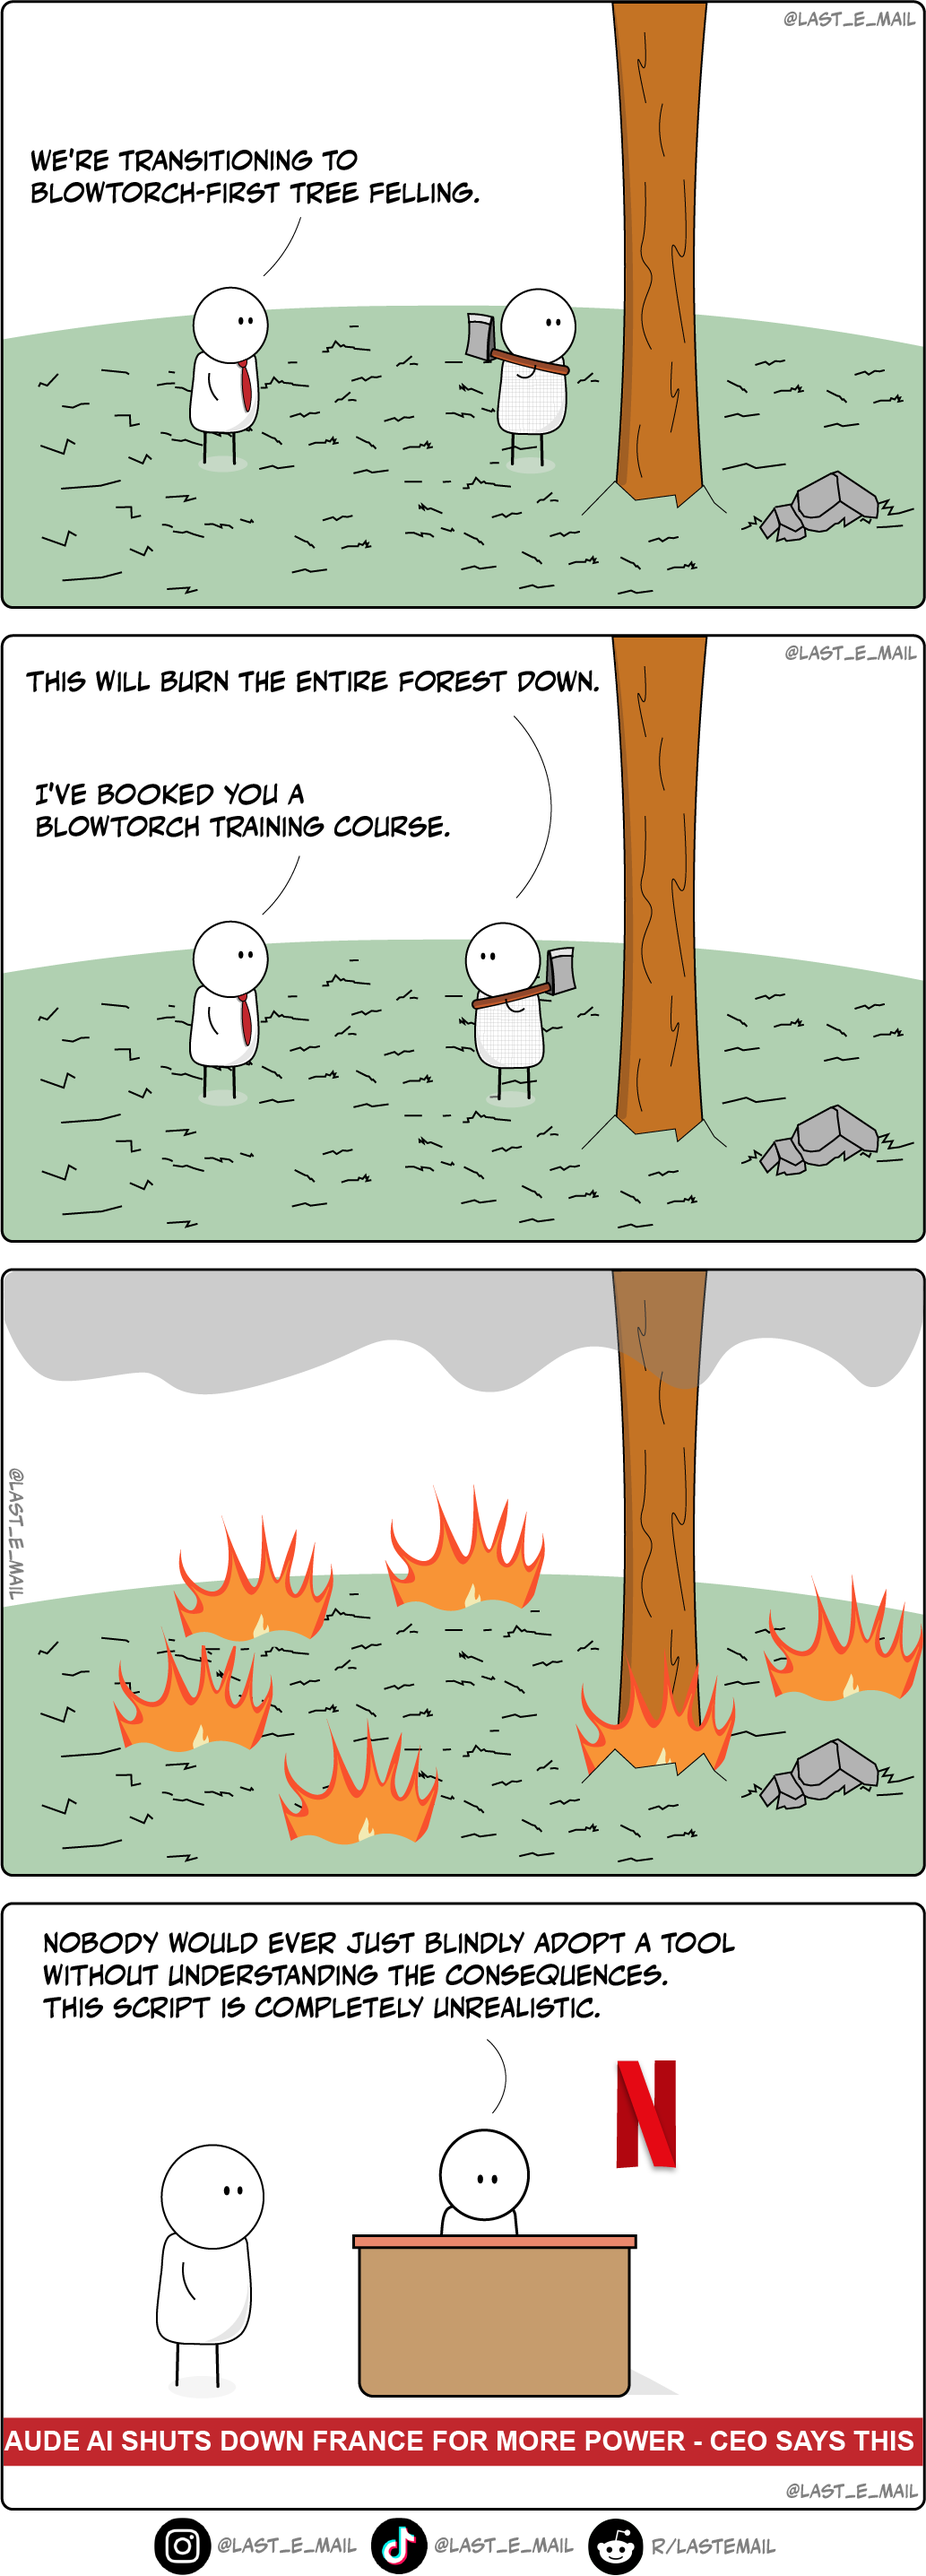
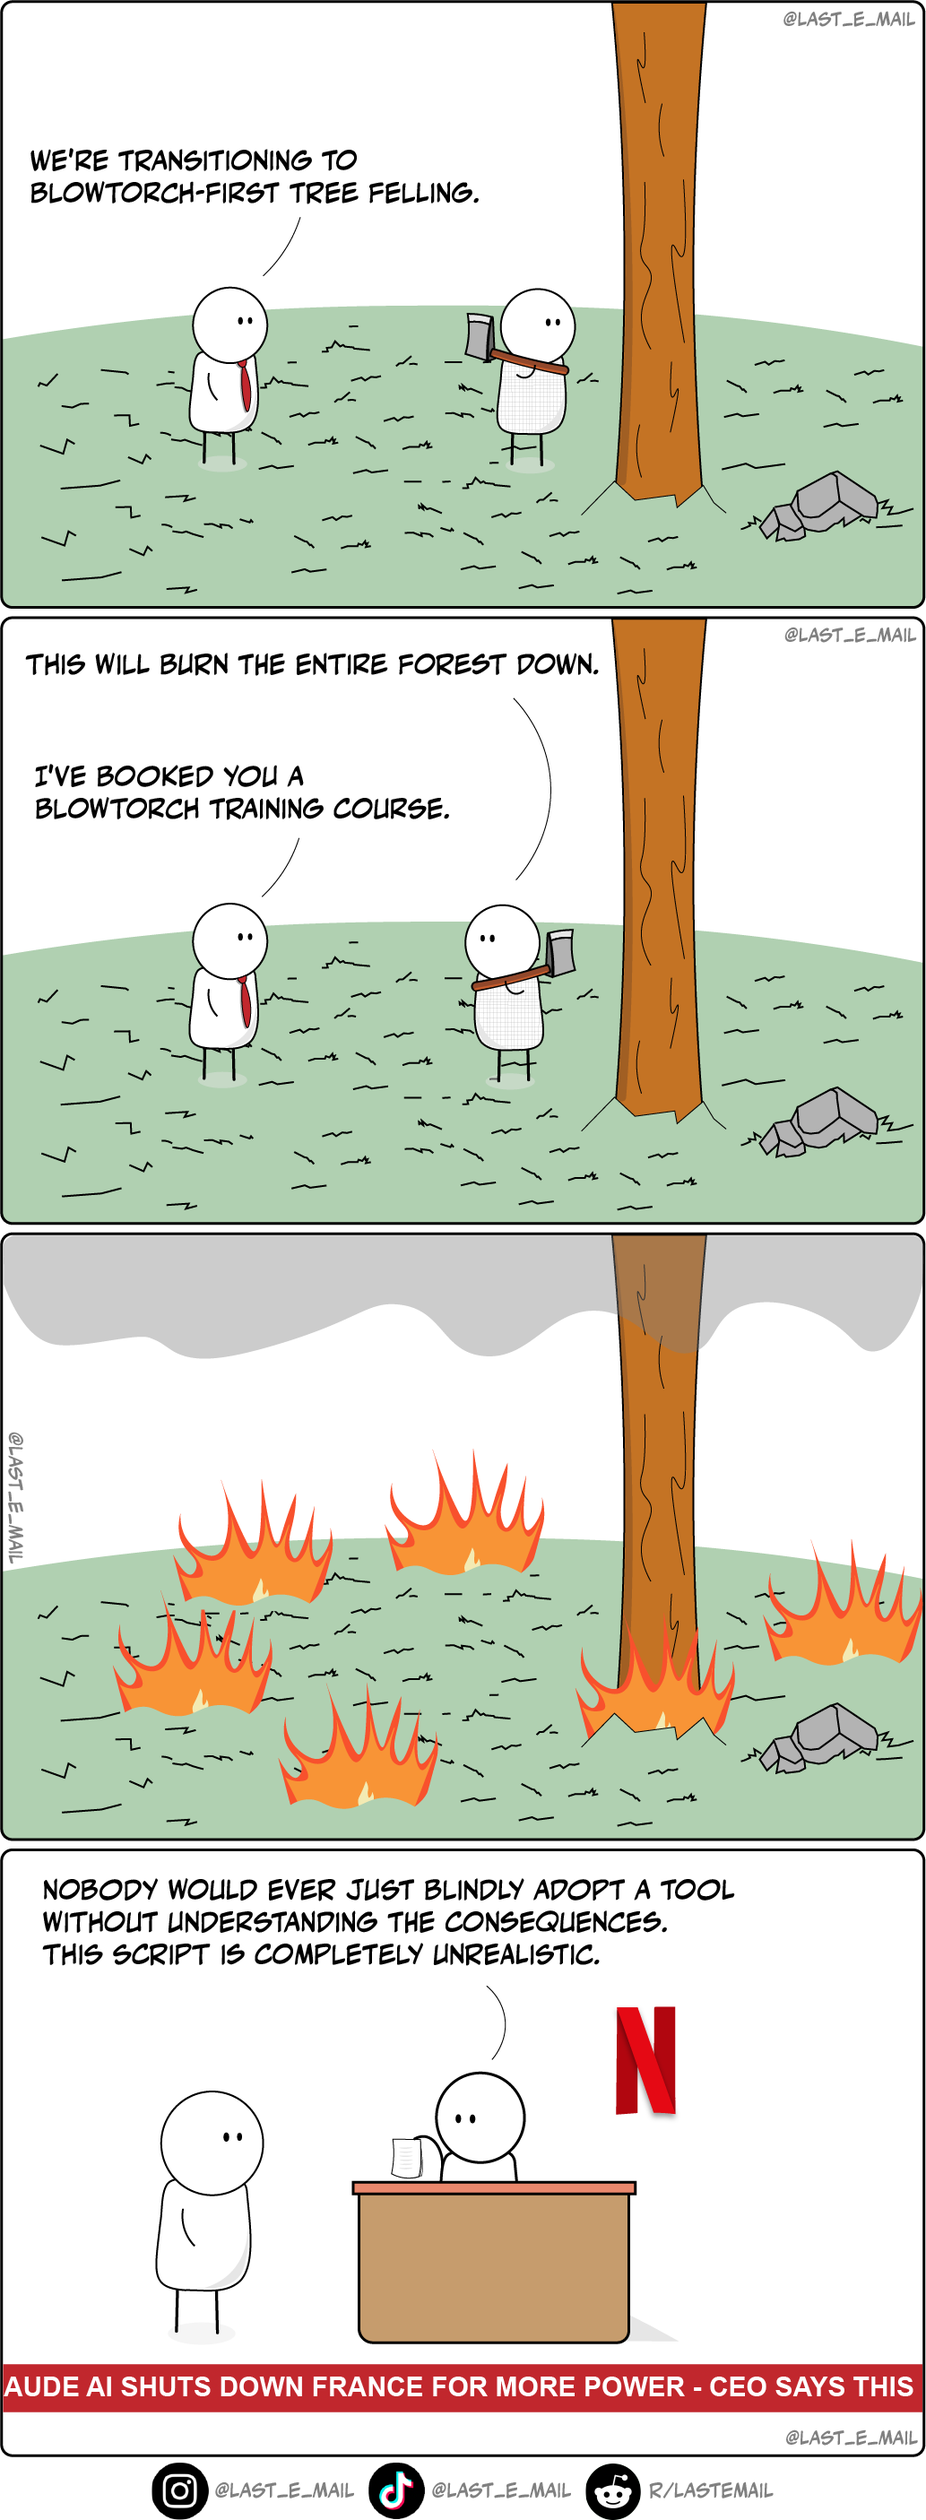
Publishes 107-113, Adds a script to 57.

diff --git a/comics/index.html b/comics/index.html
@@ -9,6 +9,13 @@
 <body>
     <div class="container">
         <h1>Comics</h1>
+        <a href="pages/113.html">113. Status Update</a><br>
+        <a href="pages/112.html">112. Normal Distribution</a><br>
+        <a href="pages/111.html">111. Relative Sizing</a><br>
+        <a href="pages/110.html">110. Self Service</a><br>
+        <a href="pages/109.html">109. Root Cause</a><br>
+        <a href="pages/108.html">108. Well, Actually</a><br>
+        <a href="pages/107.html">107. Artificial Ideation</a><br>
         <a href="pages/106.html">106. Boil the Ocean</a><br>
         <a href="pages/105.html">105. Strategic Direction</a><br>
         <a href="pages/104.html">104. Bottleneck</a><br>

diff --git a/comics/pages/107.html b/comics/pages/107.html
@@ -9,11 +9,11 @@
 <body>
 
     <div class="container">
-        <h1>106. Boil the Ocean</h1>
-        <img src="../images/106.png">
+        <h1>107. Artificial Ideation</h1>
+        <img src="../images/107.png">
         <hr>
-        <a href="../pages/105.html">< Previous</a>
-        <a href="../pages/107.html">Next ></a>
+        <a href="../pages/106.html">< Previous</a>
+        <a href="../pages/108.html">Next ></a>
 
     </div>
 </body>

diff --git a/comics/pages/112.html b/comics/pages/112.html
@@ -9,11 +9,11 @@
 <body>
 
     <div class="container">
-        <h1>106. Boil the Ocean</h1>
-        <img src="../images/106.png">
+        <h1>112. Normal Distribution</h1>
+        <img src="../images/112.png">
         <hr>
-        <a href="../pages/105.html">< Previous</a>
-        <a href="../pages/107.html">Next ></a>
+        <a href="../pages/111.html">< Previous</a>
+        <a href="../pages/113.html">Next ></a>
 
     </div>
 </body>

diff --git a/comics/pages/111.html b/comics/pages/111.html
@@ -9,11 +9,11 @@
 <body>
 
     <div class="container">
-        <h1>106. Boil the Ocean</h1>
-        <img src="../images/106.png">
+        <h1>111. Relative Sizing</h1>
+        <img src="../images/111.png">
         <hr>
-        <a href="../pages/105.html">< Previous</a>
-        <a href="../pages/107.html">Next ></a>
+        <a href="../pages/110.html">< Previous</a>
+        <a href="../pages/112.html">Next ></a>
 
     </div>
 </body>

diff --git a/comics/pages/108.html b/comics/pages/108.html
@@ -9,11 +9,11 @@
 <body>
 
     <div class="container">
-        <h1>106. Boil the Ocean</h1>
-        <img src="../images/106.png">
+        <h1>108. Well, Actually</h1>
+        <img src="../images/108.png">
         <hr>
-        <a href="../pages/105.html">< Previous</a>
-        <a href="../pages/107.html">Next ></a>
+        <a href="../pages/107.html">< Previous</a>
+        <a href="../pages/109.html">Next ></a>
 
     </div>
 </body>

diff --git a/comics/pages/110.html b/comics/pages/110.html
@@ -9,11 +9,11 @@
 <body>
 
     <div class="container">
-        <h1>106. Boil the Ocean</h1>
-        <img src="../images/106.png">
+        <h1>110. Self Service</h1>
+        <img src="../images/110.png">
         <hr>
-        <a href="../pages/105.html">< Previous</a>
-        <a href="../pages/107.html">Next ></a>
+        <a href="../pages/109.html">< Previous</a>
+        <a href="../pages/111.html">Next ></a>
 
     </div>
 </body>

diff --git a/comics/pages/109.html b/comics/pages/109.html
@@ -9,11 +9,11 @@
 <body>
 
     <div class="container">
-        <h1>106. Boil the Ocean</h1>
-        <img src="../images/106.png">
+        <h1>109. Root Cause</h1>
+        <img src="../images/109.png">
         <hr>
-        <a href="../pages/105.html">< Previous</a>
-        <a href="../pages/107.html">Next ></a>
+        <a href="../pages/108.html">< Previous</a>
+        <a href="../pages/110.html">Next ></a>
 
     </div>
 </body>

diff --git a/comics/pages/113.html b/comics/pages/113.html
@@ -9,11 +9,10 @@
 <body>
 
     <div class="container">
-        <h1>106. Boil the Ocean</h1>
-        <img src="../images/106.png">
+        <h1>113. Status Update</h1>
+        <img src="../images/113.png">
         <hr>
-        <a href="../pages/105.html">< Previous</a>
-        <a href="../pages/107.html">Next ></a>
+        <a href="../pages/112.html">< Previous</a>
 
     </div>
 </body>
